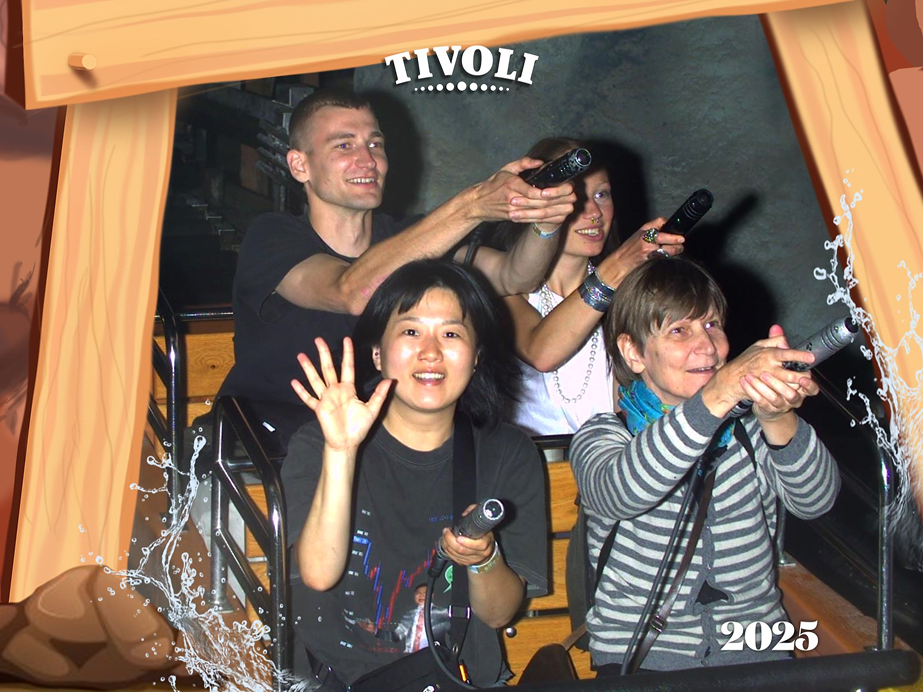
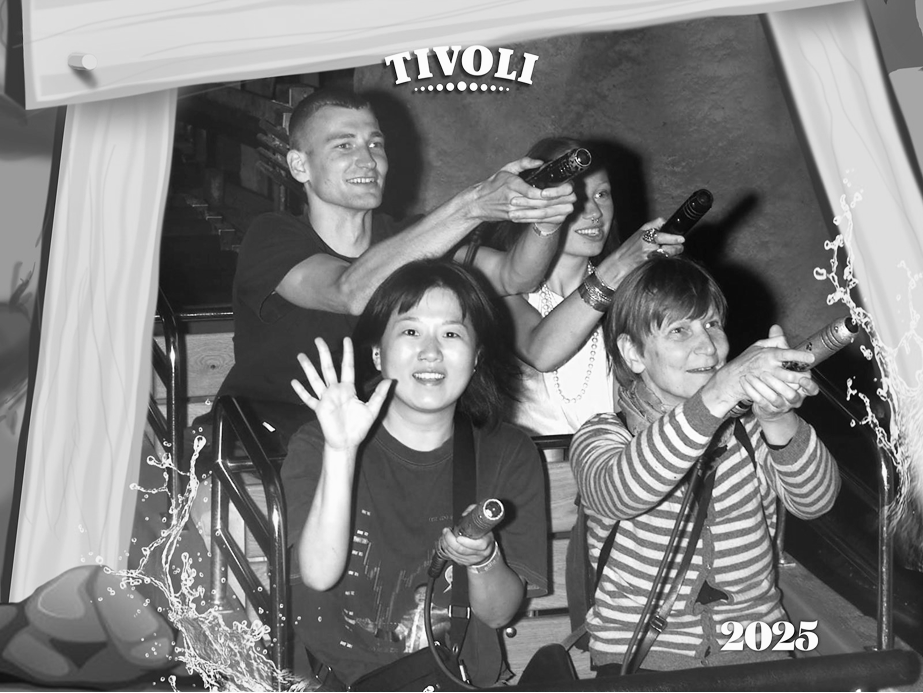
wow gui

diff --git a/src/views/AboutPage.jsx b/src/views/AboutPage.jsx
@@ -1,4 +1,5 @@
 import styles from './AboutPage.module.css';
+import useInView from '../hooks/useInView';
 
 // images
 import portrait from '../assets/images/About/portrait.png';
@@ -46,6 +47,7 @@ const GALLERIES = [
 ];
 
 export default function AboutPage() {
+    const [paraRef, paraInView] = useInView();
   return (
     <main className={styles.mainAbout}>
 
@@ -89,7 +91,12 @@ export default function AboutPage() {
         </h2>
         <div className={styles.middleFlex}>
             <img src={tivoli} className={styles.middleImg} alt="tivoli"/>
-            <p className={styles.middlePara}>👀 There’s always another perspective worth looking from.</p>
+            <p 
+            ref={paraRef}
+            className={`${styles.middlePara} ${paraInView ? styles.visible : ''}`}
+            >
+            👀 There’s always another perspective worth looking from.
+            </p>
         </div>
         </div>
       

diff --git a/src/hooks/useInView.js b/src/hooks/useInView.js
@@ -1,0 +1,29 @@
+// src/hooks/useInView.js
+import { useEffect, useRef, useState } from 'react';
+
+export default function useInView({ threshold = 0.2, once = true } = {}) {
+  const ref = useRef(null);
+  const [inView, setInView] = useState(false);
+
+  useEffect(() => {
+    const el = ref.current;
+    if (!el) return;
+
+    const observer = new IntersectionObserver(
+      ([entry]) => {
+        if (entry.isIntersecting) {
+          setInView(true);
+          if (once) observer.unobserve(el);   // 한 번만 실행
+        } else if (!once) {
+          setInView(false);                    // 다시 스크롤하면 리셋
+        }
+      },
+      { threshold }
+    );
+
+    observer.observe(el);
+    return () => observer.disconnect();
+  }, [threshold, once]);
+
+  return [ref, inView];
+}

diff --git a/src/views/AboutPage.module.css b/src/views/AboutPage.module.css
@@ -101,7 +101,19 @@
 
 .middlePara{
     font-size: 24px;
-    font-weight: 800px;
+    font-weight: 600;
+    font-style: italic;
+
+  /* 시작 상태 */
+  opacity: 0;
+  transform: translateY(24px);
+  transition: opacity 0.7s ease-out, transform 0.7s ease-out;
+  transition-delay: 0.45s;      /* ← "좀 나중에" 나오는 느낌 */
+}
+
+.middlePara.visible {
+  opacity: 1;
+  transform: none;
 }
 
 
@@ -188,6 +200,9 @@
 
   .middlePara{
     font-size: 20px;
+     opacity: 1;
+    transform: none;
+    transition: none;
   }
 
   .galleryImg { height: 180px; }
